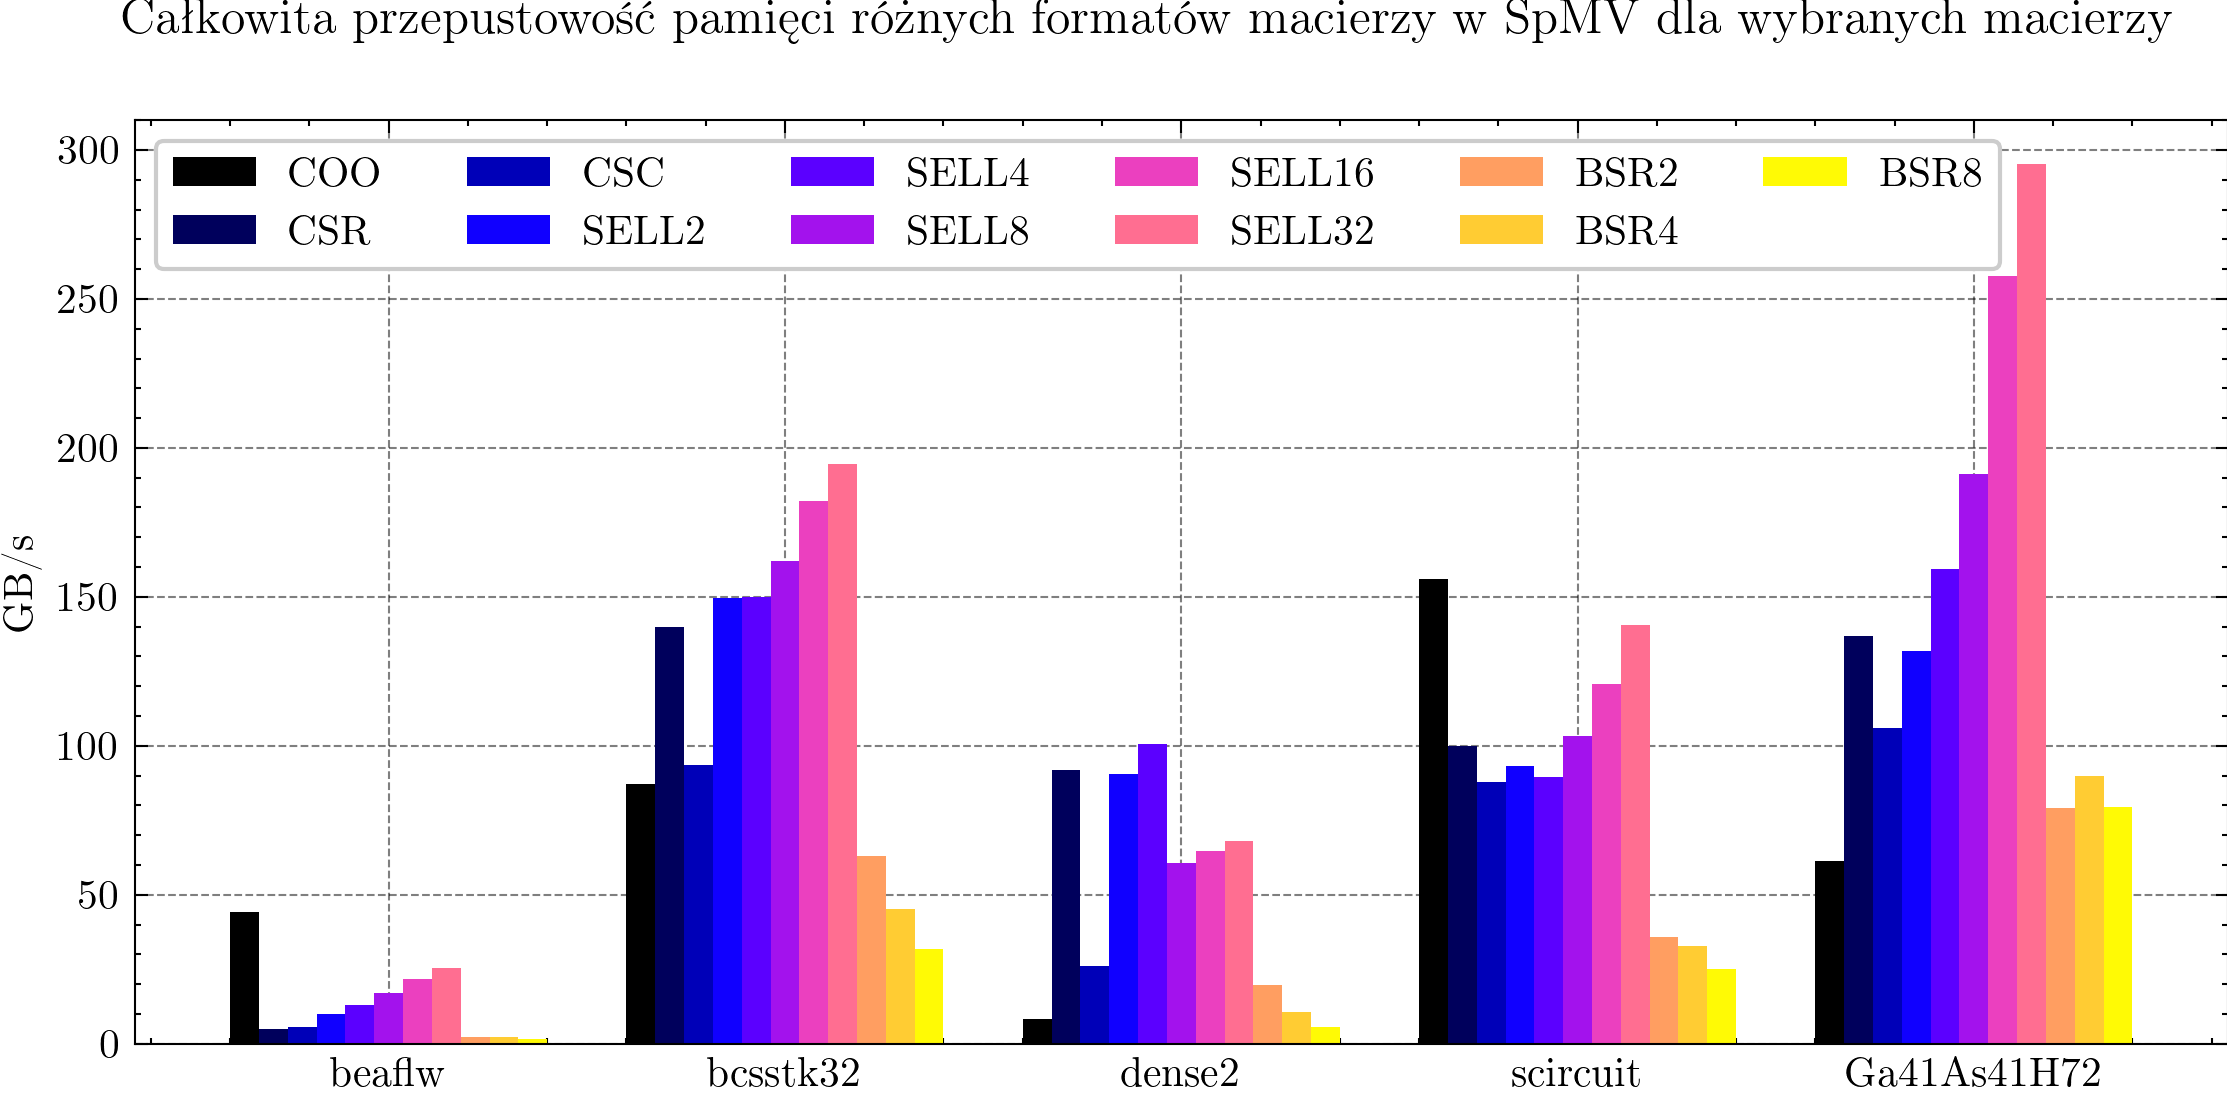
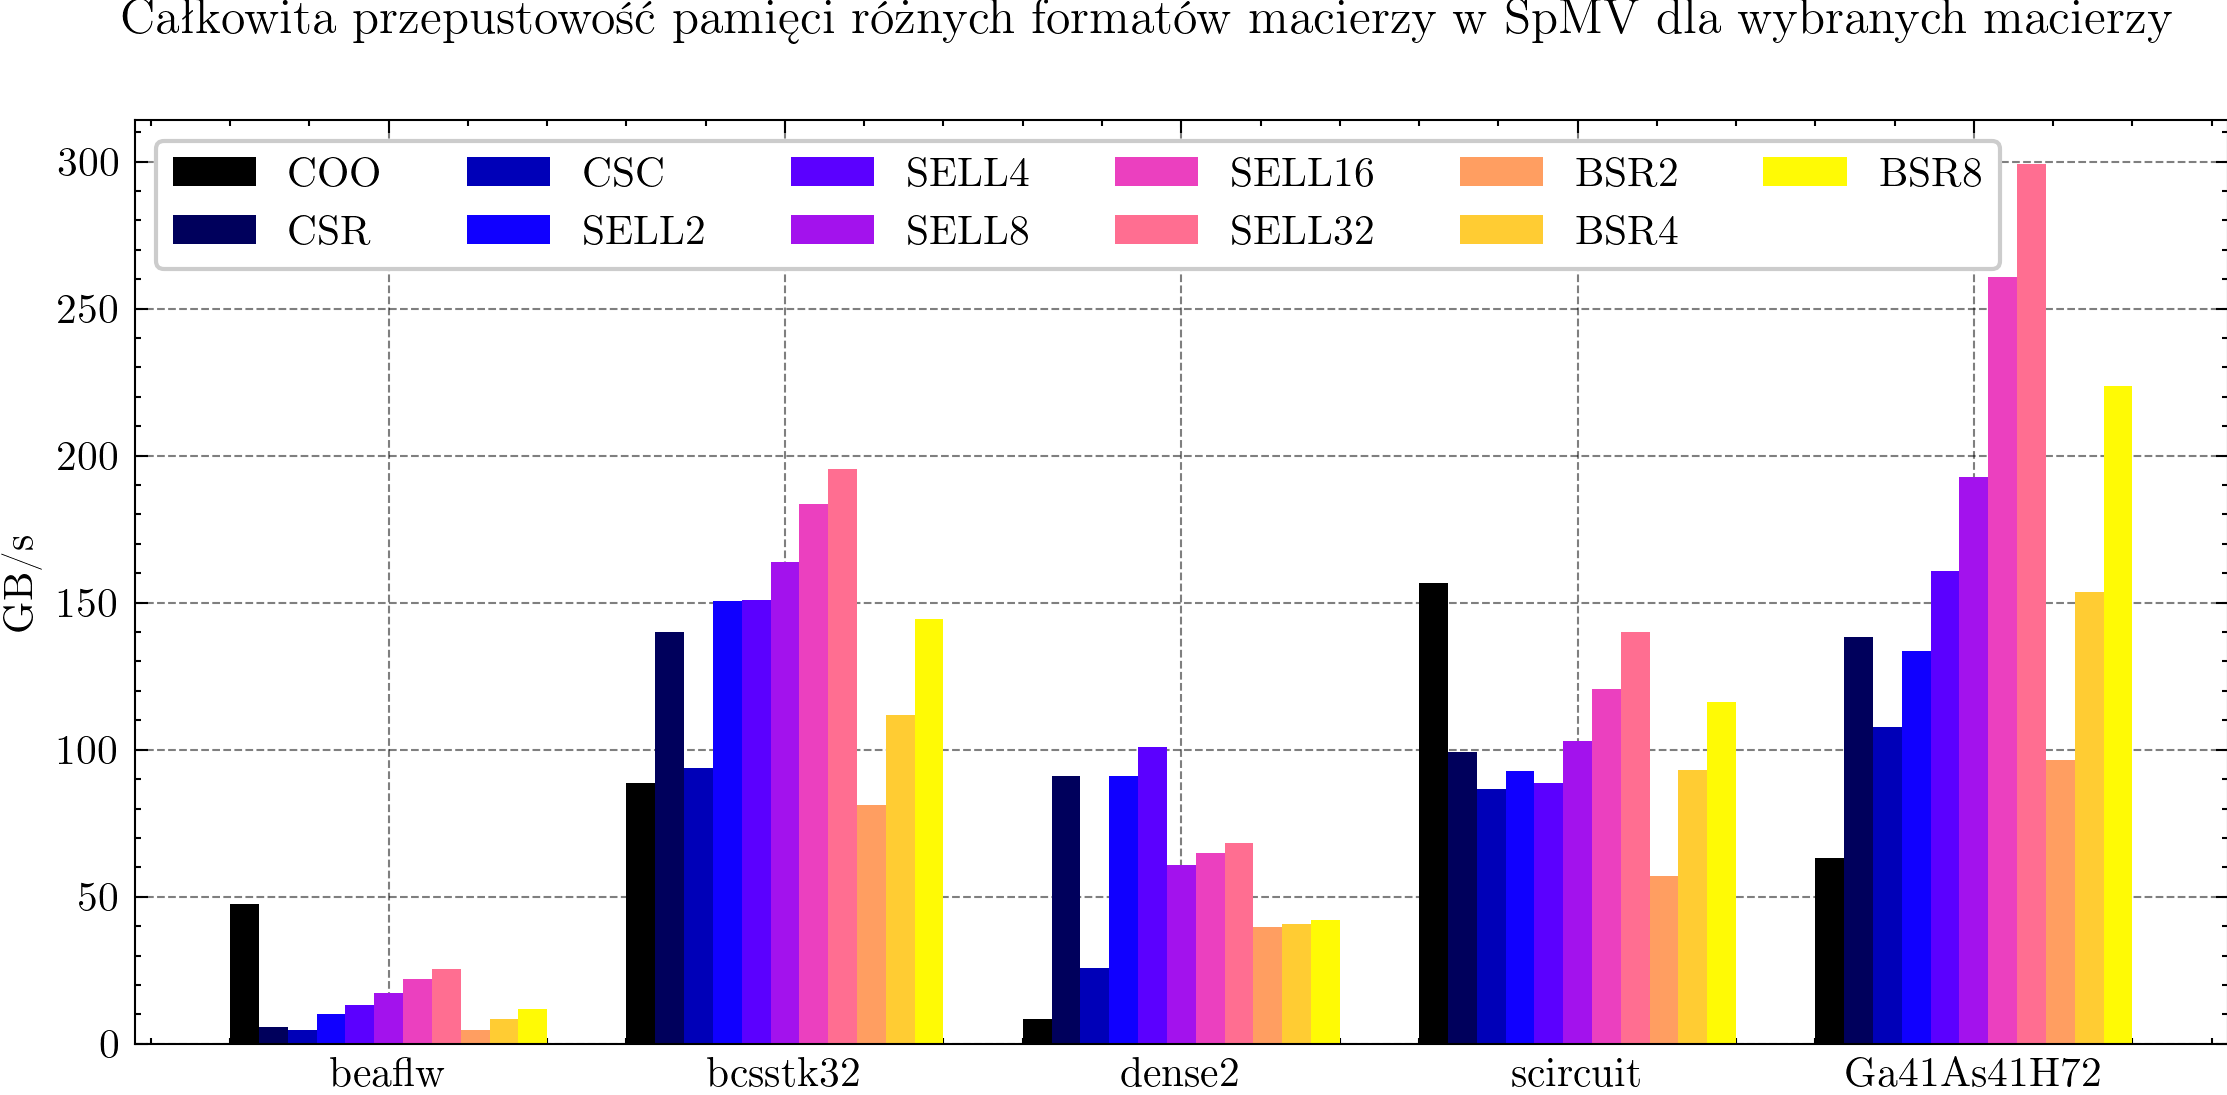
FREEZE NO CHANGEAS

diff --git a/src/compute.c b/src/compute.c
@@ -451,7 +451,7 @@ findPhysicalDevice(VkInstance instance)
 
     // TODO(radomski): Choose the most powerfull GPU
     printf("[Vulkan Init]: deviceCount = %u\n", deviceCount);
-    VkPhysicalDevice result = devicesArray[0];
+    VkPhysicalDevice result = devicesArray[deviceCount - 1];
     free(devicesArray);
 
     VkPhysicalDeviceProperties props = { 0 };
@@ -3039,7 +3039,7 @@ createScenarioBSR(VKState *state, MatrixBSR *matrix, Vector vec)
 static void
 runScenarioBSR(VKState *state, ScenarioBSR *scn, MatrixBSR *matrix, Vector expVec, char *filename)
 {
-    u32 dispatchX = DIV_CEIL(matrix->MB, WORKGROUP_SIZE);
+    u32 dispatchX = DIV_CEIL(matrix->MB * matrix->blockSize, WORKGROUP_SIZE);
     u32 dispatchY = 1;
     u32 dispatchZ = 1;
 
